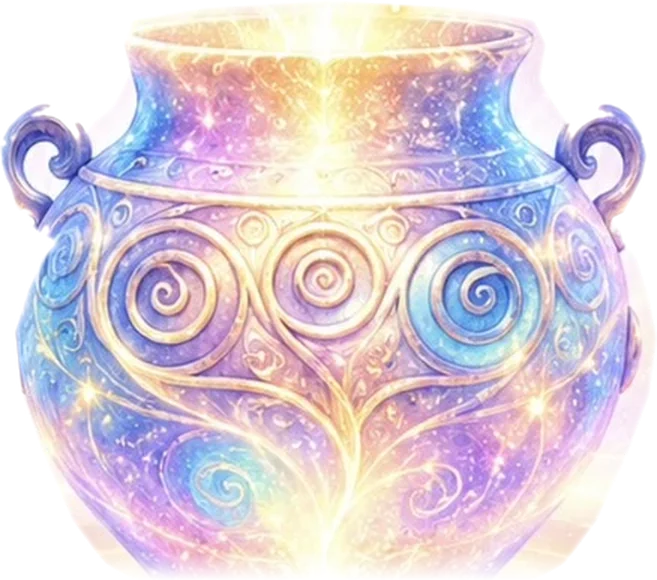
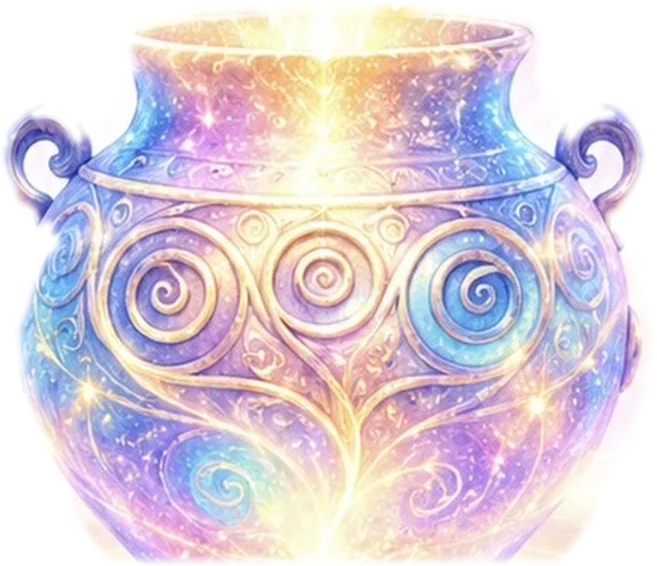
壺の縁に残っていた白い縁取りを光に戻す
残っていた白は背景ではなく、元絵で壺のまわりに描かれている光そのもの。
輪郭で切ったことで「白い縁取り」として見えていた。測ると縁の帯の
40%が白系で、とくに上部と底では7〜8割を占めていた。

削るのではなく、白いほど透明にして光として馴染ませる方式にした。

- 縁からの距離で重みをつけ、縁に近く白い画素ほどアルファを下げる
- 適用は縁から30pxの帯に限定（内側の装飾には触れない）
- あわせて縁を6px内側へ寄せた

縁の白率 40.2% → 17.5%。残りは壺自身のクリーム色の口縁など、
本来白い部分なので、これ以上は削らない。

Claude-Session: https://claude.ai/code/session_018ZtjTuM5BN3fRJ52QjjMZ9

diff --git a/index.html b/index.html
@@ -86,7 +86,7 @@
     <div class="pool" aria-hidden="true"><span></span><span></span><span></span></div>
     <div class="pot-wrap" id="potWrap">
       <div class="pot-glow"></div>
-      <img class="pot-img" src="pot.webp" width="657" height="580"
+      <img class="pot-img" src="pot.webp" width="657" height="566"
            alt="ルーン文字が舞い上がる光の壺" decoding="async" fetchpriority="high">
       <div class="pot-mouth" aria-hidden="true"></div>
       <div class="pot-rays" aria-hidden="true"><span></span><span></span><span></span></div>
